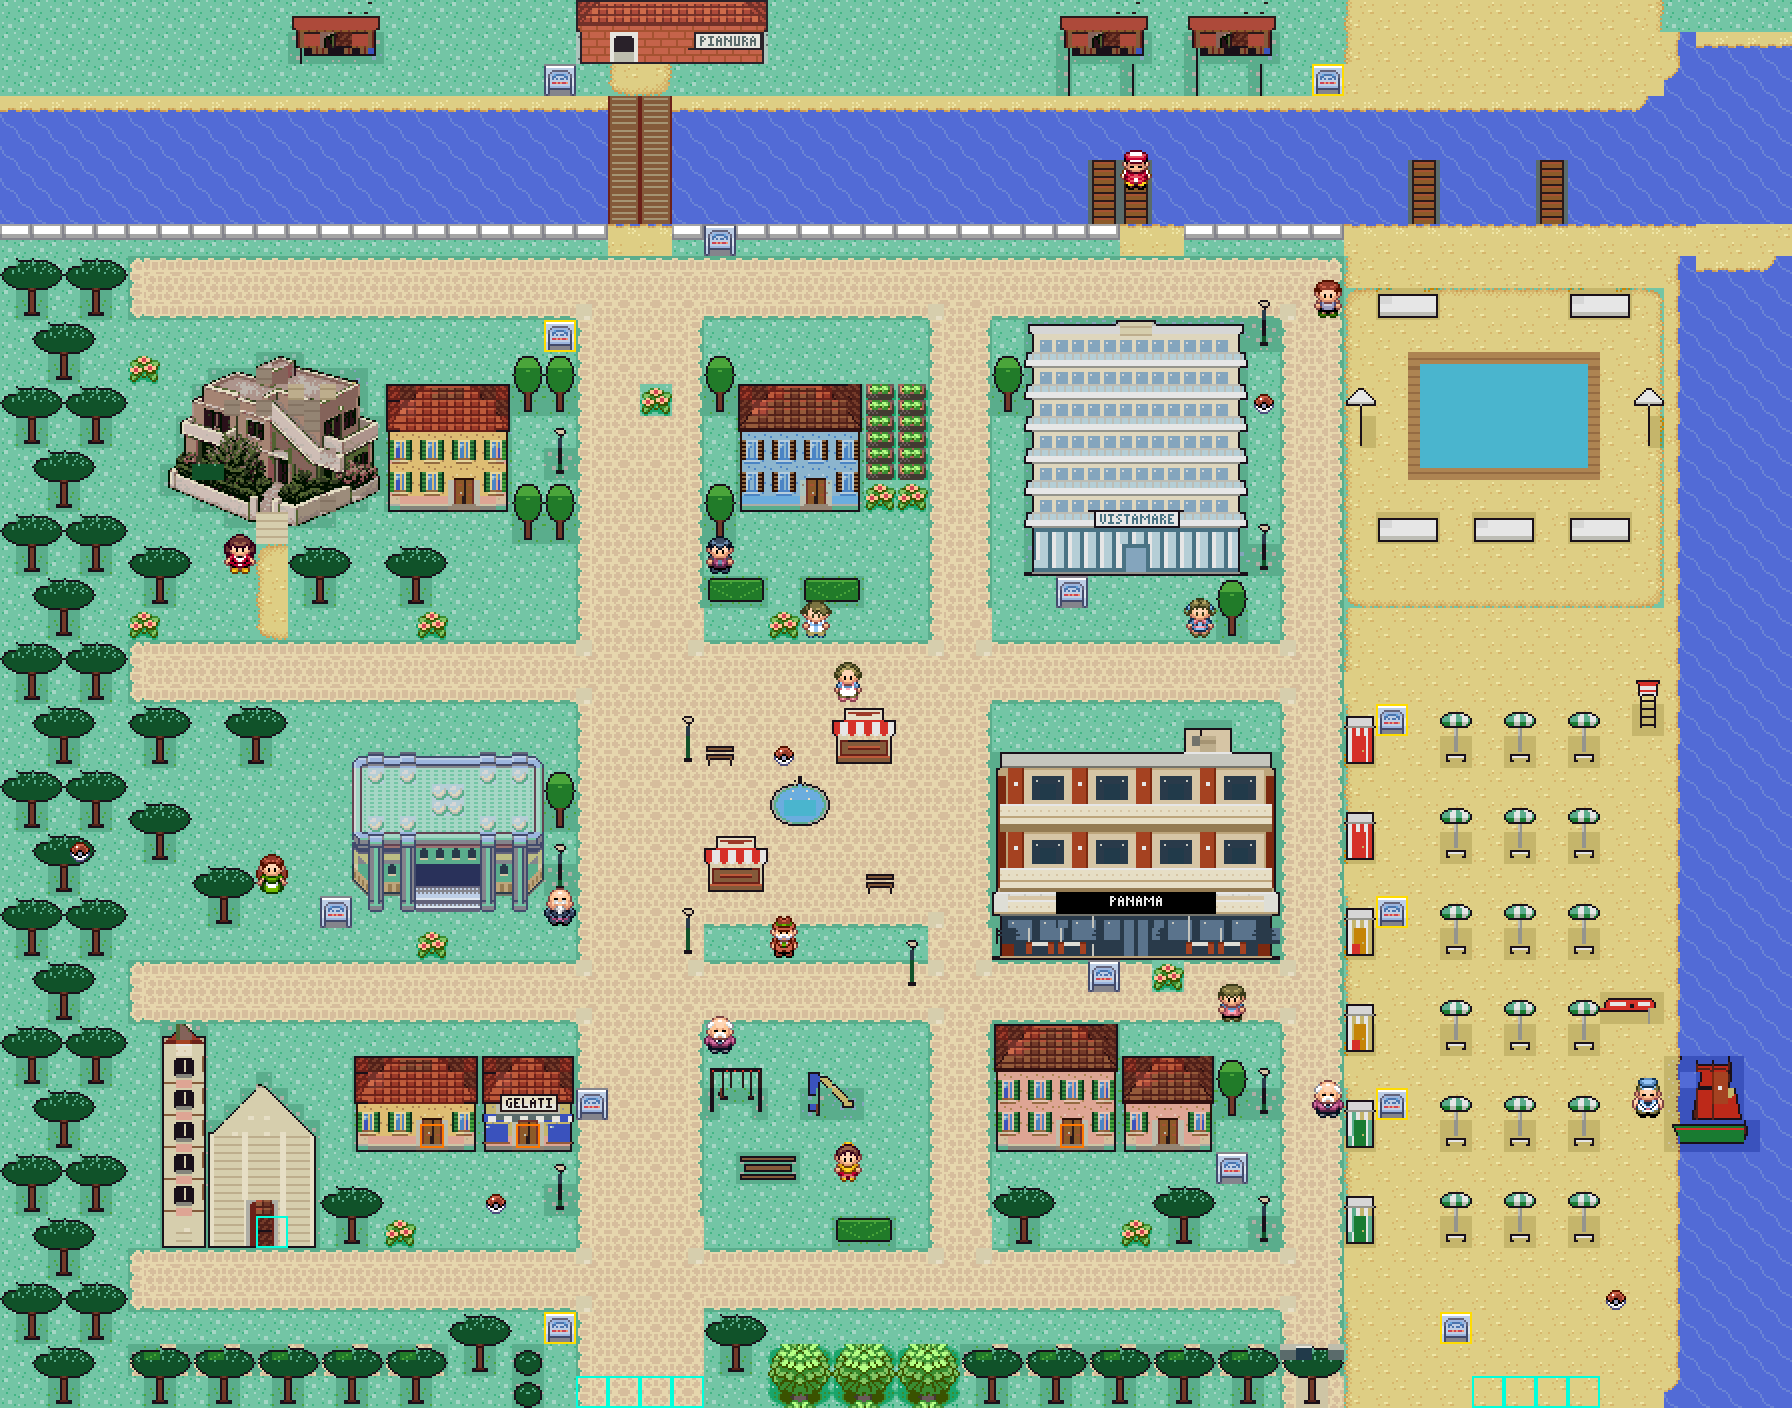
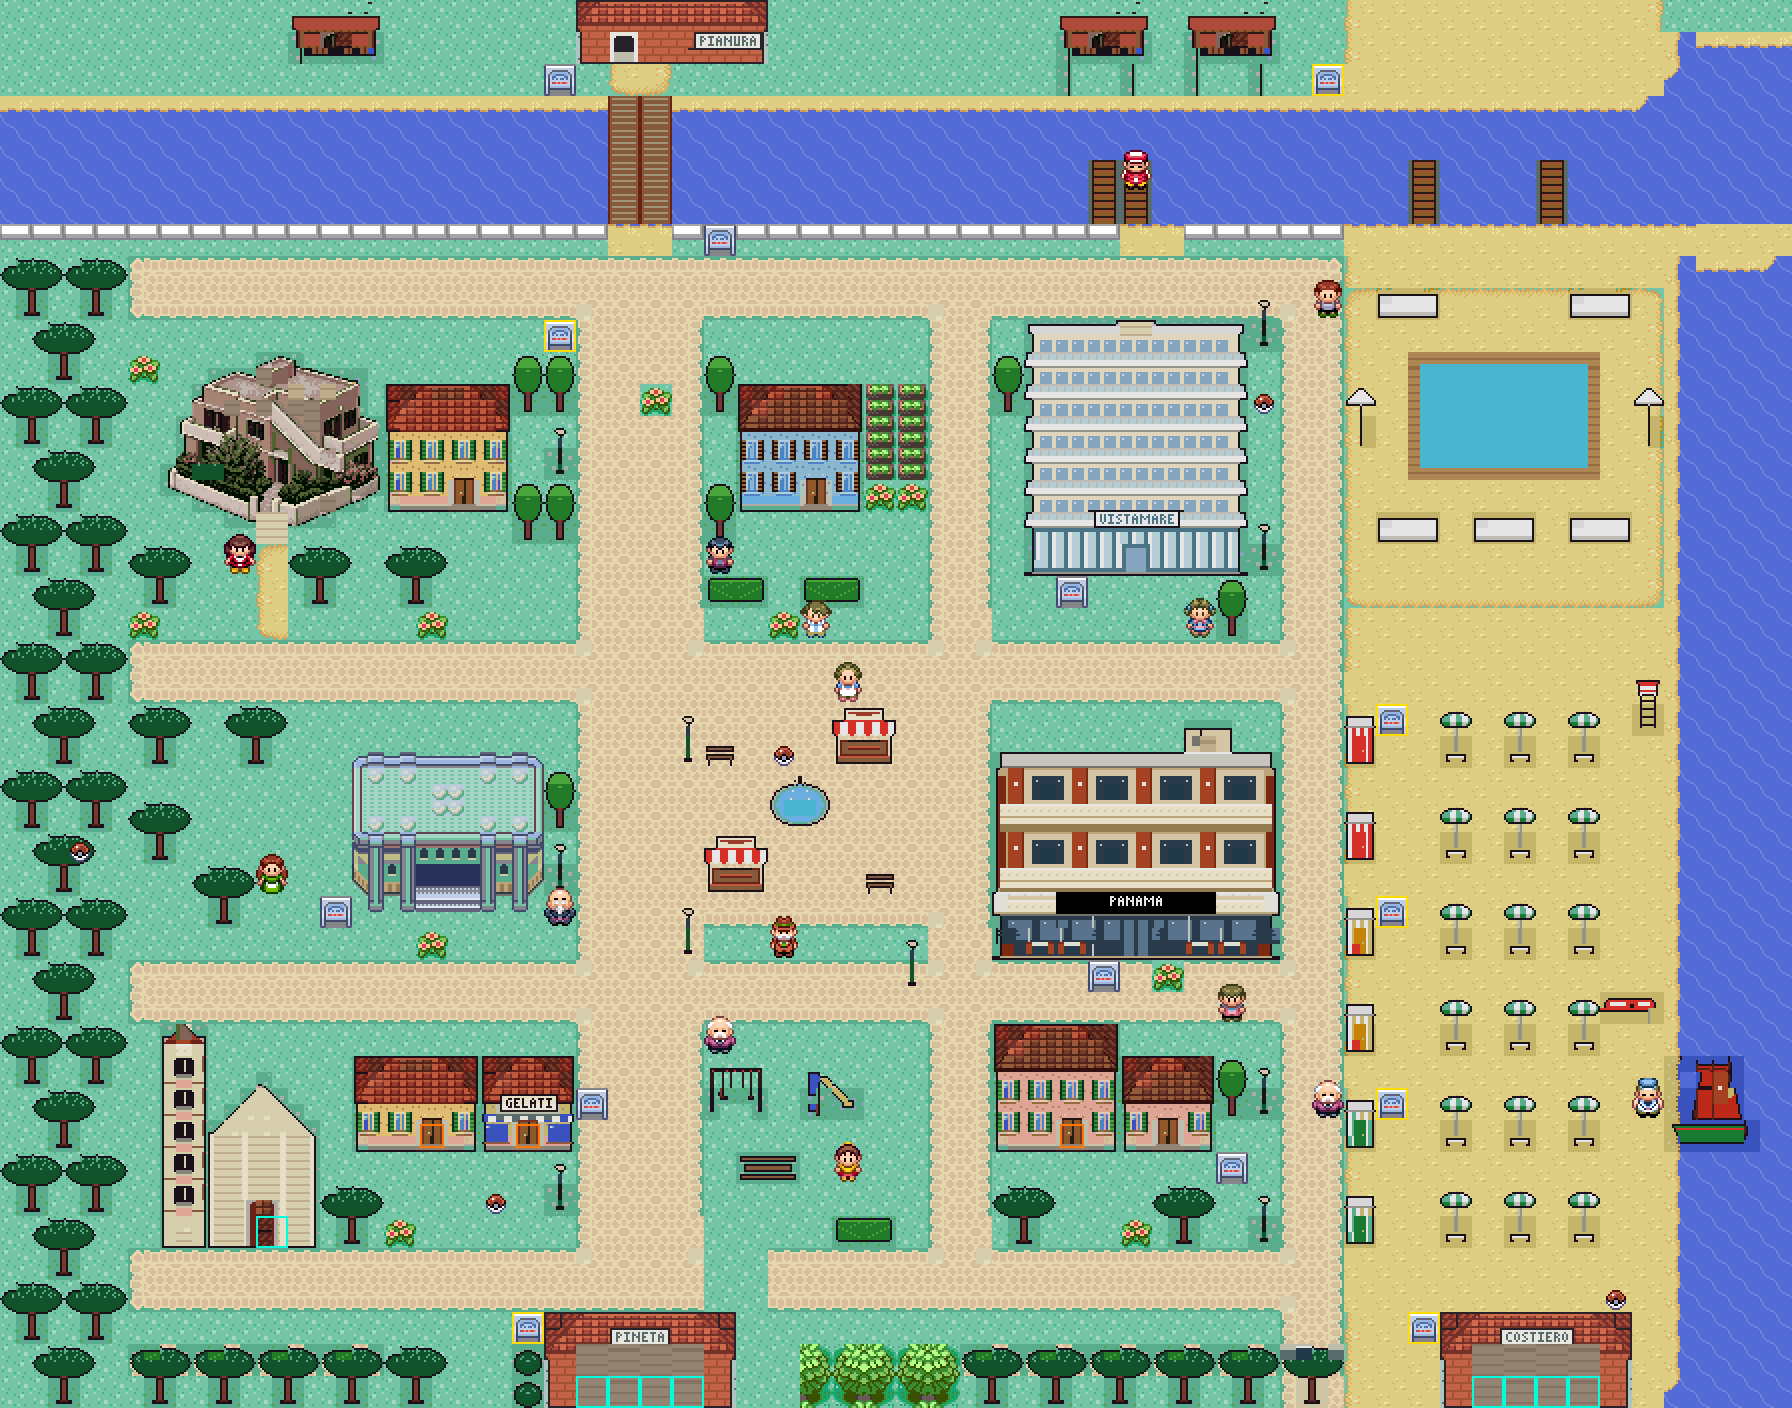
Bozza Lotto 4 (3): Lido, caselli PINETA e COSTIERO ripuliti al posto delle uscite al bordo
Claude-Session: https://claude.ai/code/session_019NeVR98VfDxiGzodkXqoY7

Changed region(s): [[0.2188, 0.875, 0.4688, 1.0], [0.7812, 0.9062, 0.9375, 1.0]]

diff --git a/bozze/lido.py b/bozze/lido.py
@@ -66,17 +66,15 @@ def disegna(d):
         if x in (19, 20, 35, 36, 22): continue           # ponte, pontile, cartello
         M.a[7, x] = 0x3000 | 0x0400 | 0x3e
     for x in (19, 20, 35, 36): M.a[7, x] = int(o[7, 17])  # sabbia ai piedi del ponte e del pontile
-    # ---------------- uscite: il viale e il sentiero arrivano al bordo della mappa fra i pini
-    M.riempi(14, 41, 10, 3, M.erba)
-    M.a[39:41, 16:24] = o[30:32, 16:24]                  # incrocio come quello del viale a meta' paese: niente striscione
-    for y in (41, 42, 43): M.a[y, 18:22] = o[38, 18:22]  # il viale scende fino al bordo fra due prati
-    M.a[41:44, 16:18] = M.erba; M.a[41:44, 22:24] = M.erba
-    for x in (14, 16, 22): M.timbro(PINO, x, 41) if x != 16 else None
-    M.timbro((16, 42, 1, 2), 16, 42)
-    M.cartello(17, 41, "PINETA DEL SAVIO\nIl viale continua fra i pini\nfino a CERVIA.")
+    # ---------------- uscite: i caselli PINETA e COSTIERO restano (tetto con il nome, passaggio coperto largo 4
+    # caselle in linea con la strada), ma puliti: via lo striscione appoggiato sul tetto, spazio libero intorno,
+    # un cartello a lato
+    M.a[40, 17:22] = o[40, 12]                           # dov'era lo striscione torna la strada
+    M.a[41:44, 14:16] = M.erba; M.a[41:44, 23:25] = M.erba
+    M.timbro(PINO, 12, 42)
+    M.cartello(16, 41, "PINETA DEL SAVIO\nIl casello porta nella pineta,\nverso CERVIA.")
     M.uscite = [(x, 43) for x in range(18, 22)] + [(x, 43) for x in range(46, 50)]
-    M.riempi(44, 40, 8, 4, M.sabbia)                    # via il casello COSTIERO: la spiaggia arriva al bordo
-    M.cartello(45, 41, "SENTIERO COSTIERO\nLungo la spiaggia fino a\nCERVIA.")
+    M.cartello(44, 41, "SENTIERO COSTIERO\nIl casello porta lungo la\nspiaggia fino a CERVIA.")
     # ---------------- Viale Romagna (x 18-20): alberi e lampioni ai lati, bancarelle
     for y in (11, 15, 24, 33):
         for x in (17, 21):
